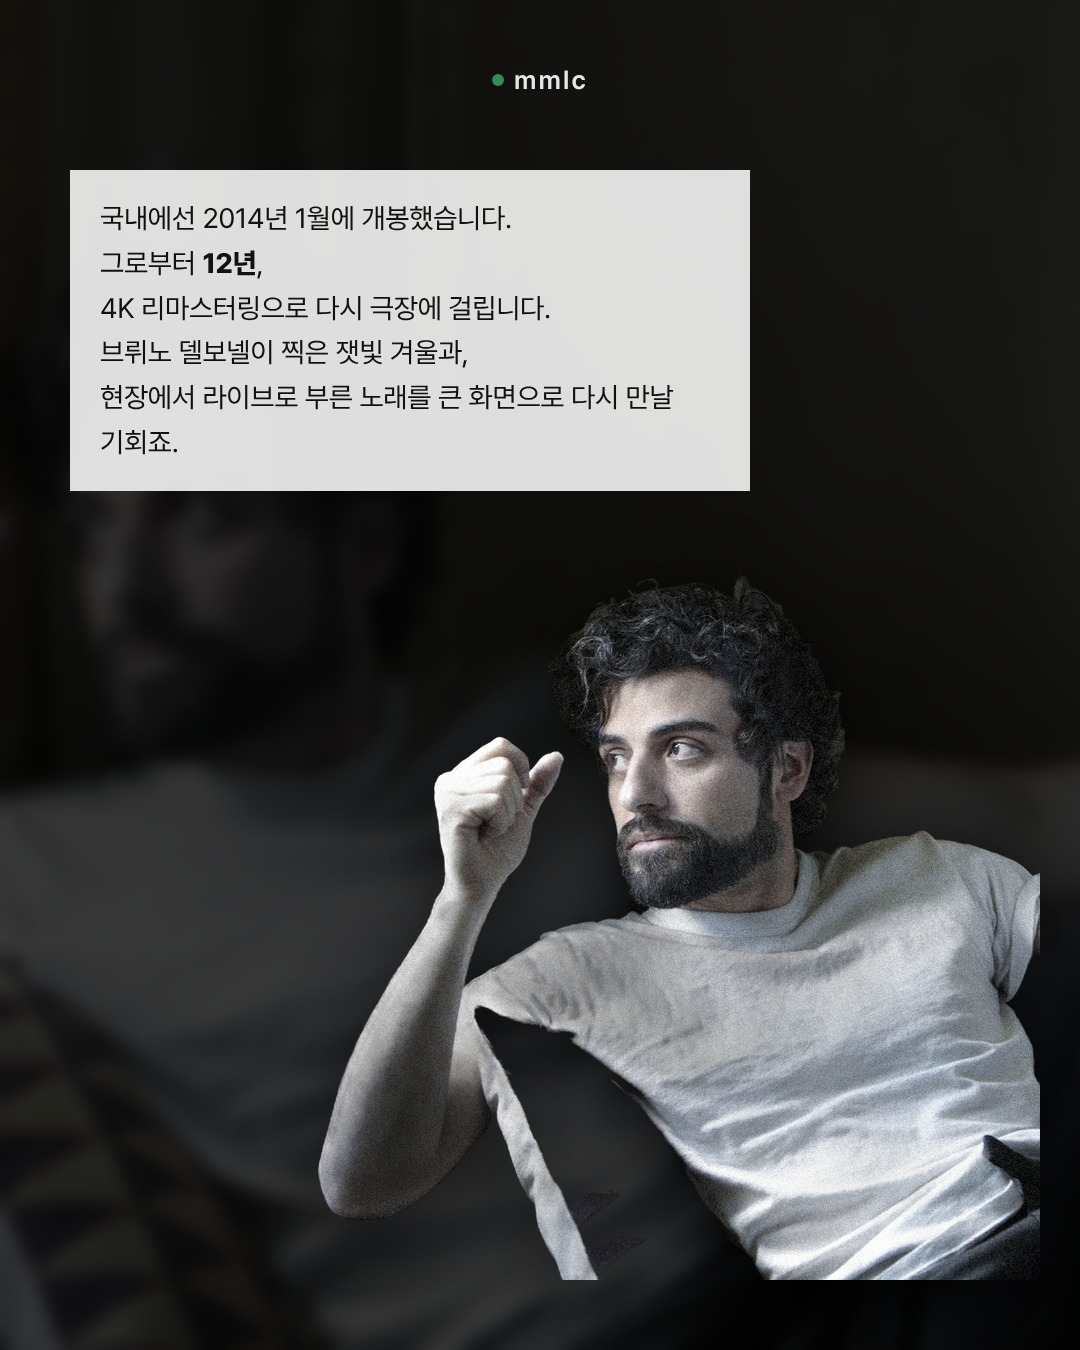
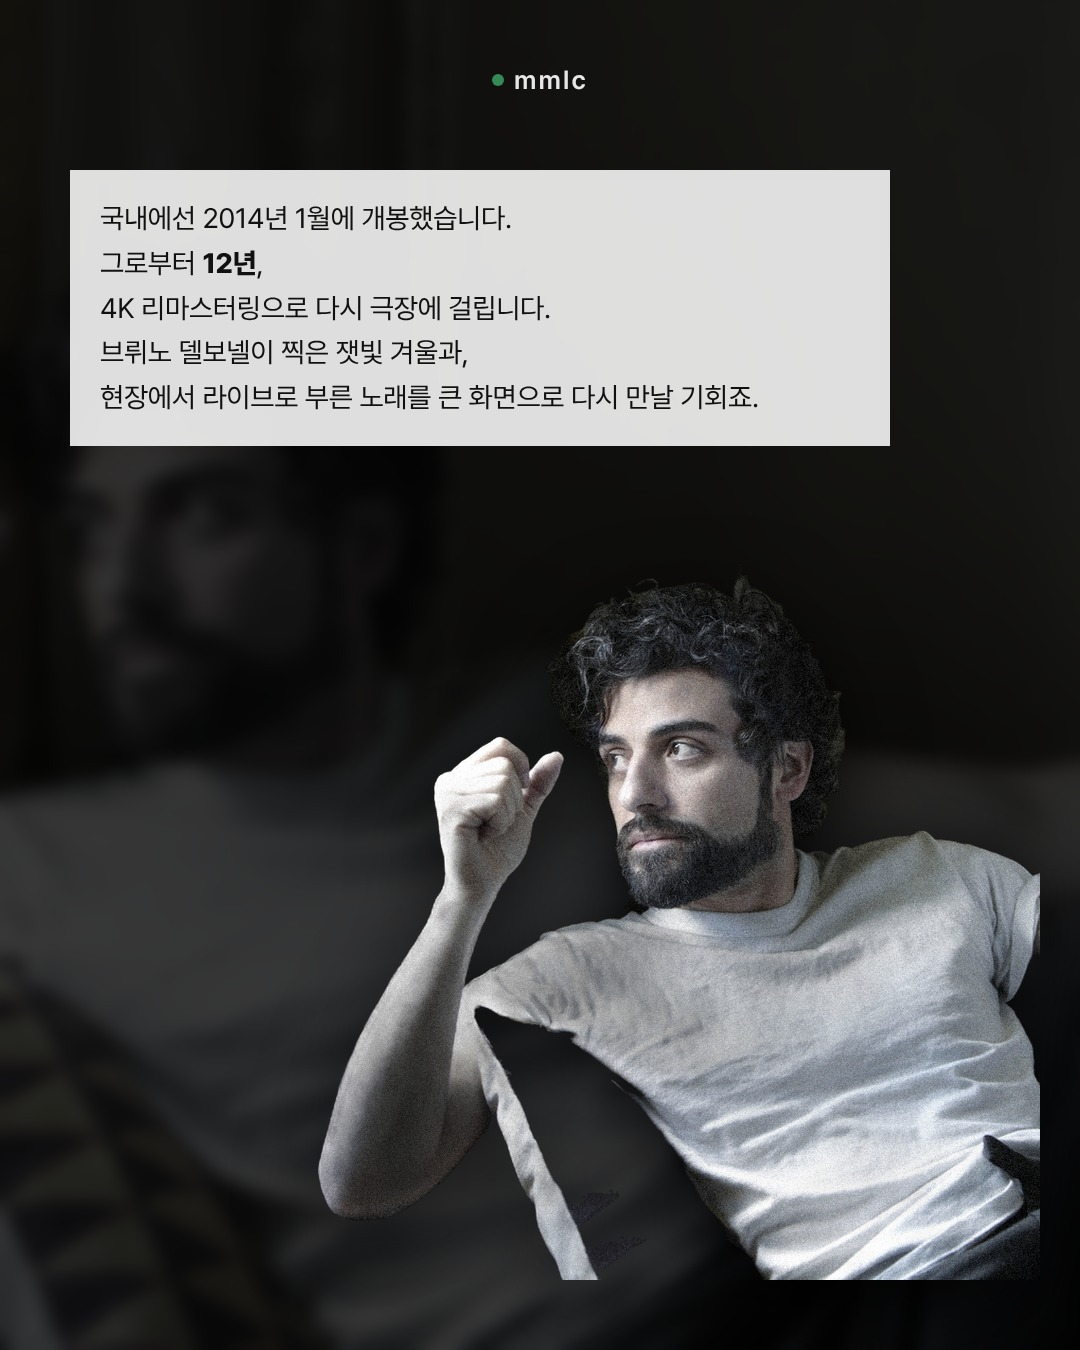
인사이드 르윈: 7장 박스 가로로 넓힘
Claude-Session: https://claude.ai/code/session_01VEGji1Wx9t8xn4NvfBmGPJ

Changed region(s): [[0.0611, 0.1244, 0.825, 0.3733]]

diff --git a/templates/story-article/llewyn/render.py b/templates/story-article/llewyn/render.py
@@ -78,7 +78,7 @@ P.append(wrap(f'''<div class="bg" style="background:#000"></div><div class="pic"
 d3,cw3,ch3=png('cut_sofa.png',720)
 P.append(wrap(f'''<div class="bg" style="background-image:url({bgdim('st4.jpg',0.8,0.5,0.22,8)})"></div>
 <img class="cut" src="{d3}" style="left:{1080-cw3-40}px;top:{1350-ch3-70}px;width:{cw3}px">
-<div class="box" style="top:170px;left:70px;right:330px">국내에선 2014년 1월에 개봉했습니다.<br>그로부터 <b>12년</b>,<br>4K 리마스터링으로 다시 극장에 걸립니다.<br>브뤼노 델보넬이 찍은 잿빛 겨울과,<br>현장에서 라이브로 부른 노래를 큰 화면으로 다시 만날 기회죠.</div>
+<div class="box" style="top:170px;left:70px;right:190px">국내에선 2014년 1월에 개봉했습니다.<br>그로부터 <b>12년</b>,<br>4K 리마스터링으로 다시 극장에 걸립니다.<br>브뤼노 델보넬이 찍은 잿빛 겨울과,<br>현장에서 라이브로 부른 노래를 큰 화면으로 다시 만날 기회죠.</div>
 '''))
 # 8 event
 d4,cw4,ch4=png('cut_phone.png',620)
